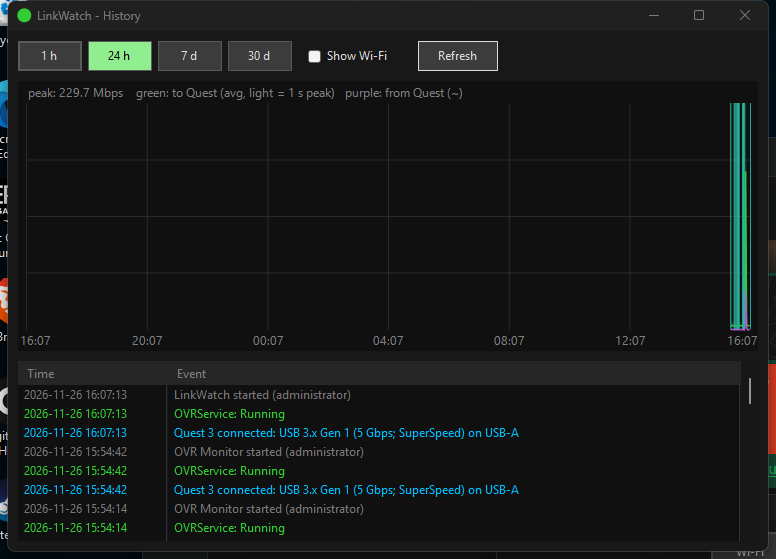
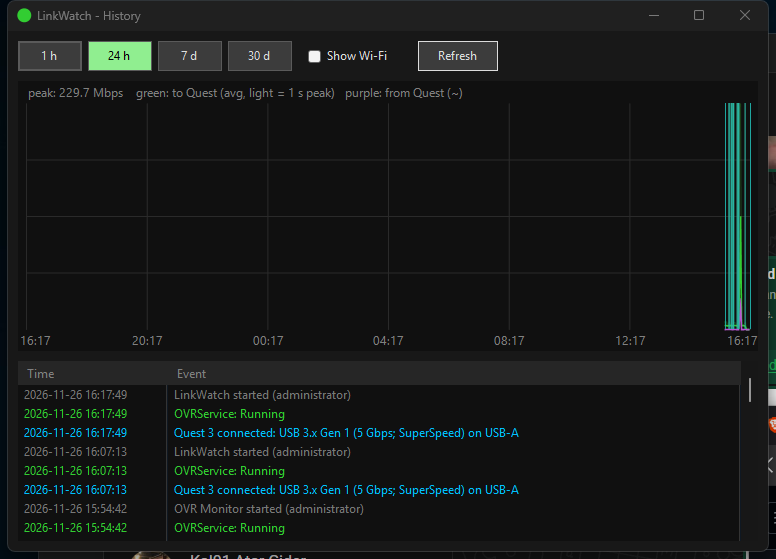
Fix settings gear glyph (source encoding), refresh screenshots

diff --git a/src/LinkWatch.cs b/src/LinkWatch.cs
@@ -260,7 +260,7 @@ class MainForm : Form {
         lblTime = L("", 12, 38, 196, 18); lblTime.ForeColor = Color.Gray;
         btnWifi = B("Wi-Fi", 214, 80); btnRestart = B("Re-Start", 300, 96);
         btnHistory = B("", 402, 43); btnHistory.Paint += (s, e) => DrawClock(e.Graphics, btnHistory.Width / 2f, btnHistory.Height / 2f);
-        btnSettings = B("âš™", 452, 43); btnSettings.Font = new Font("Segoe UI Symbol", 14f);
+        btnSettings = B("\u2699", 452, 43); btnSettings.Font = new Font("Segoe UI Symbol", 14f);
 
         Label t;
         secUsb = Section("USB cable (Quest Link)", 62, 288, out t);
